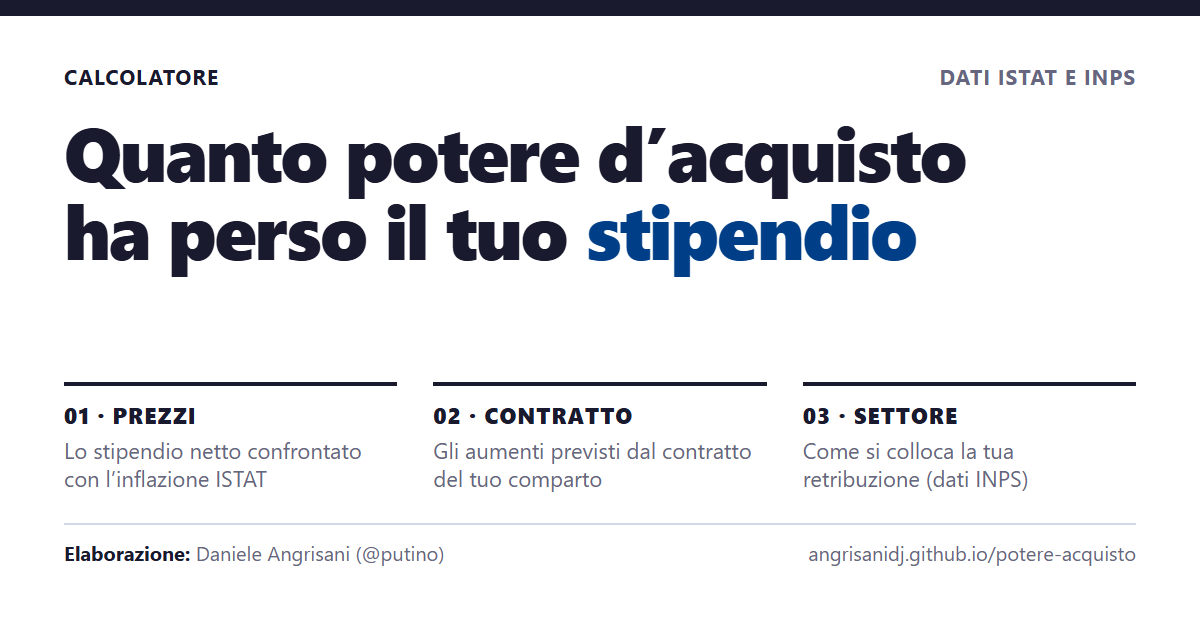
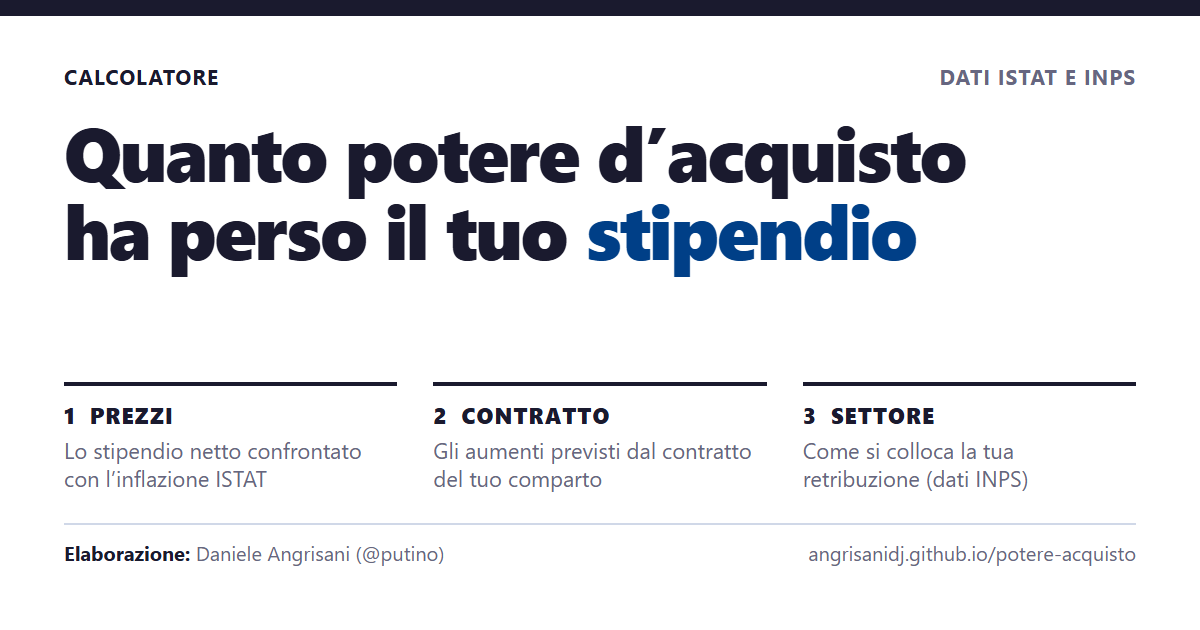
Immagine per i social: passi numerati 1, 2, 3 come nella pagina
Tolti lo zero iniziale e il punto fra numero e nome, come nei passi del
calcolatore ("1 Quando"). PNG rigenerato con scripts/build_images.mjs.

Changed region(s): [[0.37, 0.6333, 0.5242, 0.6937], [0.6475, 0.6333, 0.8017, 0.6937], [0.0308, 0.6333, 0.1542, 0.6937]]

diff --git a/assets/og-image.html b/assets/og-image.html
@@ -21,6 +21,7 @@
   .steps { display: grid; grid-template-columns: repeat(3, 1fr); gap: 36px; margin-top: auto; }
   .step { border-top: 4px solid #1A1A2E; padding-top: 14px; }
   .step b { display: block; font-size: 22px; font-weight: 800; letter-spacing: .05em; text-transform: uppercase; }
+  .step b i { font-style: normal; margin-right: 14px; }
   .step span { display: block; margin-top: 6px; font-size: 22px; line-height: 1.3; color: #666680; }
   .foot { display: flex; justify-content: space-between; margin-top: 30px; padding-top: 14px; border-top: 2px solid #D0D8E8;
           font-size: 20px; color: #666680; }
@@ -33,9 +34,9 @@
   <p class="kick"><span>Calcolatore</span><span>Dati ISTAT e INPS</span></p>
   <h1>Quanto potere d’acquisto ha perso il tuo <em>stipendio</em></h1>
   <div class="steps">
-    <div class="step"><b>01 · Prezzi</b><span>Lo stipendio netto confrontato con l’inflazione ISTAT</span></div>
-    <div class="step"><b>02 · Contratto</b><span>Gli aumenti previsti dal contratto del tuo comparto</span></div>
-    <div class="step"><b>03 · Settore</b><span>Come si colloca la tua retribuzione (dati INPS)</span></div>
+    <div class="step"><b><i>1</i>Prezzi</b><span>Lo stipendio netto confrontato con l’inflazione ISTAT</span></div>
+    <div class="step"><b><i>2</i>Contratto</b><span>Gli aumenti previsti dal contratto del tuo comparto</span></div>
+    <div class="step"><b><i>3</i>Settore</b><span>Come si colloca la tua retribuzione (dati INPS)</span></div>
   </div>
   <p class="foot"><span><strong>Elaborazione:</strong> Daniele Angrisani (@putino)</span><span>angrisanidj.github.io/potere-acquisto</span></p>
 </div>
